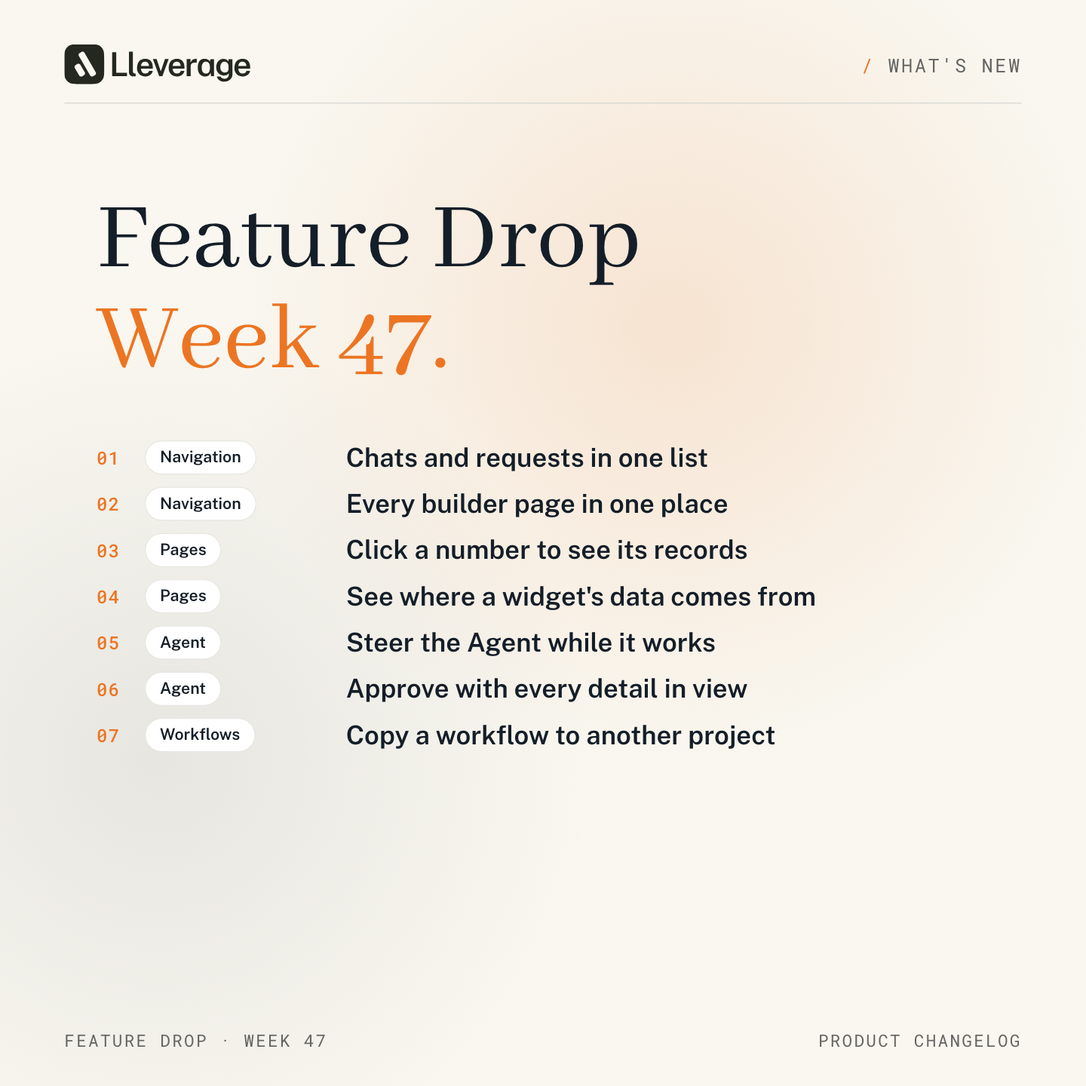
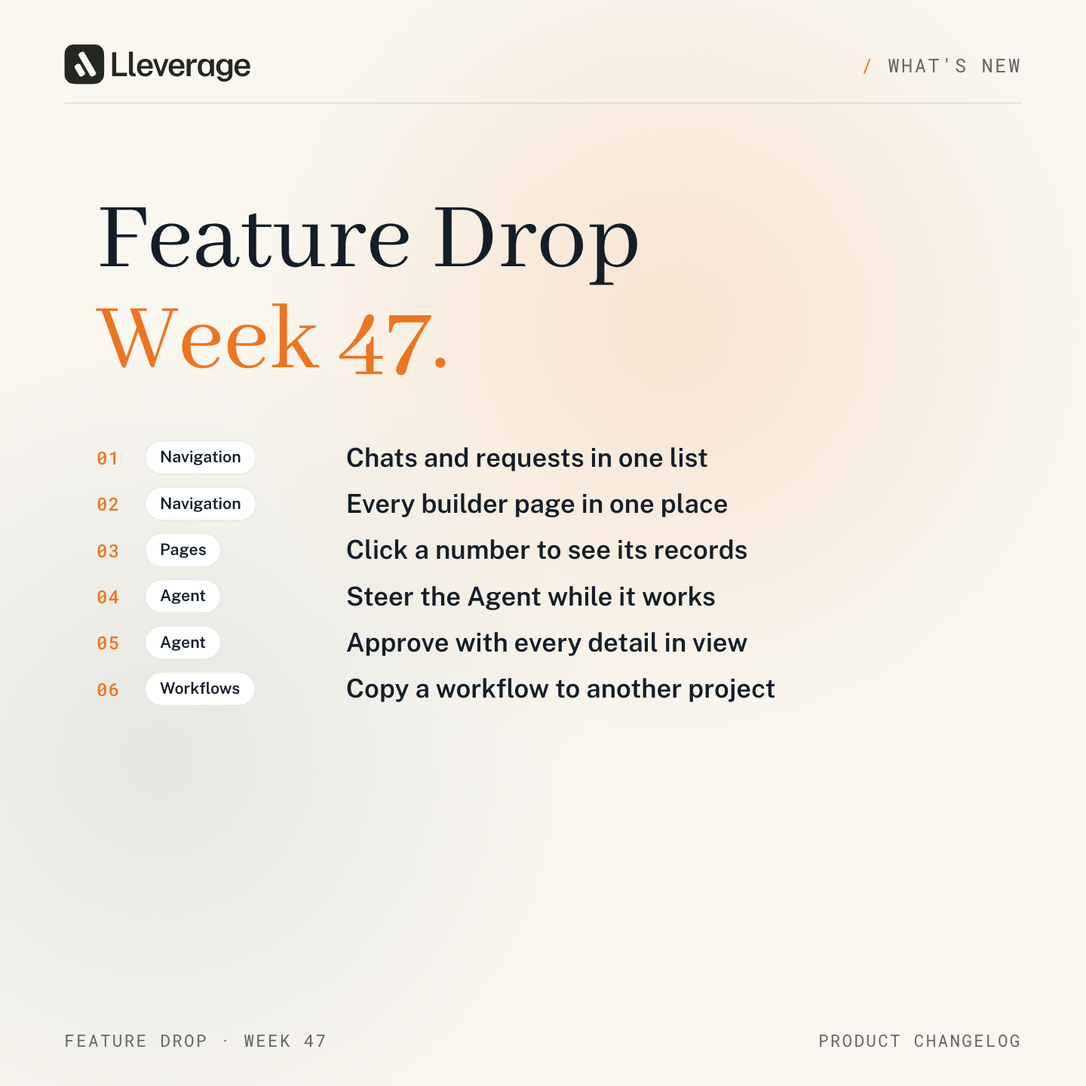
Feature Drop Week 47: widget source chapter out, placeholders aligned
Claude-Session: https://claude.ai/code/session_01WXoob6UKYZWkcKnn9sMm6R

Changed region(s): [[0.3125, 0.5312, 0.75, 0.6875], [0.125, 0.5938, 0.25, 0.7188], [0.1562, 0.5312, 0.1875, 0.5625]]

diff --git a/marketing/feature-drops/2026-w47/ch2-hub.html b/marketing/feature-drops/2026-w47/ch2-hub.html
@@ -25,7 +25,7 @@
   .cfg .cintro { padding: 4px 32px 0; font-size: 14px; line-height: 20px; color: hsl(var(--muted-foreground)); }
   .cfg .big { margin: 16px 32px 0; max-width: 576px; height: 44px; border-radius: 12px; border: .5px solid hsl(var(--border)); outline: .5px solid hsl(var(--border)); outline-offset: -1px; background: hsl(var(--card)); display: flex; align-items: center; gap: 10px; padding: 0 14px; font-size: 15px; }
   .cfg .big svg { width: 15px; height: 15px; color: hsl(var(--muted-foreground)); }
-  .cfg .big .ph { color: hsl(var(--muted-foreground)); }
+  .cfg .big .plh { color: hsl(var(--muted-foreground)); }
   .cols { padding: 24px 32px; display: grid; grid-template-columns: repeat(3, minmax(0, 1fr)); column-gap: 24px; row-gap: 32px; align-items: start; }
   .cg h3 { margin: 0 0 8px; font-size: 16px; line-height: 24px; font-weight: 600; letter-spacing: -.01em; }
   .cg .cc { border-radius: 12px; border: .5px solid hsl(var(--border)); outline: .5px solid hsl(var(--border)); outline-offset: -1px; padding: 4px 6px; display: flex; flex-direction: column; }
@@ -63,7 +63,7 @@
         <div class="cfg" id="cfg">
           <div id="cfgh"></div>
           <div class="cintro">Only builders can see this. Find every part of this project, and pin any page to the navigation for the people who use it.</div>
-          <div class="big" id="big"><span data-fa="faMagnifyingGlass"></span><span id="q" class="ph">Search this project</span></div>
+          <div class="big" id="big"><span data-fa="faMagnifyingGlass"></span><span id="q" class="plh">Search this project</span></div>
           <div class="cols" id="cols"></div>
           <div class="res" id="res">
             <h4>Workflows</h4>
@@ -85,7 +85,7 @@
 <script src="clip.js"></script>
 <script src="chapter.js"></script>
 <script>
-  CHAPTER({ n: 2, total: 7, module: "Navigation", footerLeft: "Feature Drop · Week 47",
+  CHAPTER({ n: 2, total: 6, module: "Navigation", footerLeft: "Feature Drop · Week 47",
     title: "Every builder page<br><em>in one place.</em>",
     line: "Builders get Configure at the top of the navigation: every page of the project, grouped, with a search across the whole project." });
   const D = 15.2;
@@ -154,7 +154,7 @@
     $("#va").classList.toggle("hov", t >= 7.3);
     $("#cfg").style.display = cfg ? "block" : "none"; $("#cfg").style.opacity = out(p(t, 7.65, 7.9));
     const typed = t >= 11.0;
-    if (typed) { type($("#q"), QY, t, 11.0, 11.6, null); $("#q").className = ""; } else { $("#q").textContent = "Search this project"; $("#q").className = "ph"; }
+    if (typed) { type($("#q"), QY, t, 11.0, 11.6, null); $("#q").className = ""; } else { $("#q").textContent = "Search this project"; $("#q").className = "plh"; }
     const res = t >= 11.7;
     $("#cols").style.display = res ? "none" : ""; $("#res").style.display = res ? "block" : "none"; $("#res").style.opacity = out(p(t, 11.7, 11.95));
   });

diff --git a/marketing/feature-drops/2026-w47/ch6-copy.html b/marketing/feature-drops/2026-w47/ch6-copy.html
@@ -67,7 +67,7 @@
   .dlg .db { padding: 16px 24px 8px; display: flex; flex-direction: column; gap: 6px; font-size: 14px; line-height: 20px; }
   .dlg label { font-size: 14px; line-height: 14px; font-weight: 500; }
   .sel { position: relative; height: 32px; display: flex; align-items: center; padding: 0 12px; border: 1px solid hsl(var(--input)); border-radius: 10px; background: hsl(var(--background)); }
-  .sel .ph { color: hsl(var(--muted-foreground)); }
+  .sel .plh { color: hsl(var(--muted-foreground)); }
   .sel .cv { margin-left: auto; opacity: .5; } .sel .cv svg { width: 16px; height: 16px; }
   .opts { position: absolute; left: -1px; right: -1px; top: 36px; padding: 4px; background: hsl(var(--card)); border: 1px solid hsl(var(--border)); border-radius: 10px; box-shadow: 0 4px 6px -1px rgb(0 0 0 / .1); z-index: 2; }
   .opts div { padding: 6px 8px; border-radius: 8px; }
@@ -137,7 +137,7 @@
           <div id="s1">
             <div class="dh"><h2>Copy workflow to another project</h2><div class="dd">Read order emails will be added to the chosen project as an unpublished draft. This one stays as it is.</div></div>
             <div class="db"><label>Project</label>
-              <div class="sel" id="sel"><span id="selv" class="ph">Choose a project</span><span class="cv" data-lu="chevronDown"></span>
+              <div class="sel" id="sel"><span id="selv" class="plh">Choose a project</span><span class="cv" data-lu="chevronDown"></span>
                 <div class="opts" id="opts"><div>Invoices</div><div id="opt">Order intake Belgium</div><div>Purchasing</div></div></div></div>
             <div class="df"><span class="ob">Cancel</span><span class="pb off" id="go">Copy to project</span></div>
           </div>
@@ -159,7 +159,7 @@
 <script src="clip.js"></script>
 <script src="chapter.js"></script>
 <script>
-  CHAPTER({ n: 7, total: 7, module: "Workflows", footerLeft: "Feature Drop · Week 47",
+  CHAPTER({ n: 6, total: 6, module: "Workflows", footerLeft: "Feature Drop · Week 47",
     title: "Copy a workflow<br><em>to another project.</em>",
     line: "Copy to project puts a workflow in another project as an unpublished draft, and lists the tables, connections and variables it still points at." });
   const D = 14.8;
@@ -213,7 +213,7 @@
     $("#cpi").classList.toggle("hov", t >= 3.4);
     $("#opt").classList.toggle("hov", t >= 5.9);
     const picked = t >= 6.3;
-    $("#selv").textContent = picked ? "Order intake Belgium" : "Choose a project"; $("#selv").className = picked ? "" : "ph";
+    $("#selv").textContent = picked ? "Order intake Belgium" : "Choose a project"; $("#selv").className = picked ? "" : "plh";
     $("#go").classList.toggle("off", !picked);
     $("#go").textContent = t >= 7.3 && t < 8.0 ? "Copying…" : "Copy to project";
     $("#go").classList.toggle("press", t >= 7.2 && t < 7.4);

diff --git a/marketing/feature-drops/2026-w47/ch4-steer.html b/marketing/feature-drops/2026-w47/ch4-steer.html
@@ -39,7 +39,7 @@
             </div></div>
           </div>
           <div class="foot col">
-            <div class="cmp" id="cmp"><span class="cb32" data-lu="plus"></span><div class="tx" id="tx"><span class="ph">Reply to Lleverage…</span></div>
+            <div class="cmp" id="cmp"><span class="cb32" data-lu="plus"></span><div class="tx" id="tx"><span class="plh">Reply to Lleverage…</span></div>
               <span class="cb32 sec" id="stop"></span><span class="cb32 pri" id="queue" data-lu="listPlus"></span></div>
             <div class="under"><span class="l"><span data-fa="faFolder"></span>Order intake</span><span class="r"><b>Opus 5.5</b> Medium <span data-lu="chevronDown"></span></span></div>
           </div>
@@ -53,7 +53,7 @@
 <script src="clip.js"></script>
 <script src="chapter.js"></script>
 <script>
-  CHAPTER({ n: 5, total: 7, module: "Agent", footerLeft: "Feature Drop · Week 47",
+  CHAPTER({ n: 4, total: 6, module: "Agent", footerLeft: "Feature Drop · Week 47",
     title: "Steer the Agent<br><em>while it works.</em>",
     line: "A message typed while the Agent works waits its turn. Send now steers it into the work under way, and the Agent carries on with it." });
   const D = 14.0;
@@ -75,7 +75,7 @@
   const L = (k) => { $("#qm").style.display = k >= 1 ? "" : "none"; $("#am2").style.display = k >= 2 ? "" : "none"; $("#wa").style.display = k === 1 ? "" : "none"; $("#stl").style.display = k >= 2 ? "" : "none";
     $("#qb").classList.toggle("wait", k === 1); };
   L(0); $("#tx").textContent = Q; const P = { tx: at($("#tx"), 0.2), queue: at($("#queue")) };
-  L(1); $("#tx").innerHTML = '<span class="ph">Reply to Lleverage…</span>'; P.send = at($("#sendnow"), 0.4);
+  L(1); $("#tx").innerHTML = '<span class="plh">Reply to Lleverage…</span>'; P.send = at($("#sendnow"), 0.4);
   const c1 = at($("#cmp"), 1, 1), a0 = at($(".am"), 0, 0);
   L(0);
   const VW = C.STAGE_W, VH = C.STAGE_H, FIT = Math.min(VW / 1280, VH / C.APP_H) * 0.98;
@@ -114,7 +114,7 @@
     type($("#rep"), R, t, 11.1, 11.8, null);
     // The composer: typed text, then Stop beside Queue while there is text; empty again once queued.
     const k = t < 4.75 ? 0 : t < 8.5 ? 1 : 2; L(k);
-    if (t >= 2.65 && t < 4.75) { type($("#tx"), Q, t, 2.65, 4.25, null); } else $("#tx").innerHTML = '<span class="ph">Reply to Lleverage…</span>';
+    if (t >= 2.65 && t < 4.75) { type($("#tx"), Q, t, 2.65, 4.25, null); } else $("#tx").innerHTML = '<span class="plh">Reply to Lleverage…</span>';
     const hasText = t >= 2.7 && t < 4.75;
     $("#stop").innerHTML = working ? lu("loader2", "", `transform:rotate(${(t * 360) % 360}deg)`) : fa("faPhoneFlip");
     $("#stop").className = working ? "cb32 sec" : "cb32";

diff --git a/marketing/feature-drops/2026-w47/feature-drop-cards.html b/marketing/feature-drops/2026-w47/feature-drop-cards.html
@@ -55,10 +55,9 @@
         <li><span class="n">01</span><span class="mod">Navigation</span><span class="t">Chats and requests in one list</span></li>
         <li><span class="n">02</span><span class="mod">Navigation</span><span class="t">Every builder page in one place</span></li>
         <li><span class="n">03</span><span class="mod">Pages</span><span class="t">Click a number to see its records</span></li>
-        <li><span class="n">04</span><span class="mod">Pages</span><span class="t">See where a widget's data comes from</span></li>
-        <li><span class="n">05</span><span class="mod">Agent</span><span class="t">Steer the Agent while it works</span></li>
-        <li><span class="n">06</span><span class="mod">Agent</span><span class="t">Approve with every detail in view</span></li>
-        <li><span class="n">07</span><span class="mod">Workflows</span><span class="t">Copy a workflow to another project</span></li>
+        <li><span class="n">04</span><span class="mod">Agent</span><span class="t">Steer the Agent while it works</span></li>
+        <li><span class="n">05</span><span class="mod">Agent</span><span class="t">Approve with every detail in view</span></li>
+        <li><span class="n">06</span><span class="mod">Workflows</span><span class="t">Copy a workflow to another project</span></li>
       </ul>
     </div>
     <div class="footer"><span>Feature Drop · Week 47</span><span>Product changelog</span></div>

diff --git a/marketing/feature-drops/2026-w47/ch5-approve.html b/marketing/feature-drops/2026-w47/ch5-approve.html
@@ -55,7 +55,7 @@
               <div class="bt"><span class="bb ok" id="ok">Approve</span><span class="bb">Deny</span></div>
             </div>
             <div class="rs" id="rs">Response submitted</div>
-            <div class="cmp"><span class="cb32" data-lu="plus"></span><div class="tx"><span class="ph" id="ph">Reply, or approve above…</span></div><span class="cb32" data-fa="faPhoneFlip"></span></div>
+            <div class="cmp"><span class="cb32" data-lu="plus"></span><div class="tx"><span class="plh" id="ph">Reply, or approve above…</span></div><span class="cb32" data-fa="faPhoneFlip"></span></div>
             <div class="under"><span class="l"><span data-fa="faFolder"></span>Order intake</span><span class="r"><b>Opus 5.5</b> Medium <span data-lu="chevronDown"></span></span></div>
           </div>
         </div>
@@ -68,7 +68,7 @@
 <script src="clip.js"></script>
 <script src="chapter.js"></script>
 <script>
-  CHAPTER({ n: 6, total: 7, module: "Agent", footerLeft: "Feature Drop · Week 47",
+  CHAPTER({ n: 5, total: 6, module: "Agent", footerLeft: "Feature Drop · Week 47",
     title: "Approve with<br><em>every detail in view.</em>",
     line: "When the Agent asks to change something in a connected system, the approval lists every value it will send, with readable labels and dates." });
   const D = 12.2;

diff --git a/marketing/feature-drops/2026-w47/parts/agent-page.css b/marketing/feature-drops/2026-w47/parts/agent-page.css
@@ -38,7 +38,7 @@
 .foot { padding-bottom: 8px; }
 .cmp { background: hsl(var(--card)); border: .5px solid hsl(var(--border)); outline: .5px solid hsl(var(--border)); outline-offset: -1px; border-radius: 12px; box-shadow: 0 1px 2px rgb(0 0 0 / .05); padding: 6px; display: flex; align-items: center; gap: 2px; }
 .cmp .tx { flex: 1; min-width: 0; padding: 4px 12px; font-size: 14px; line-height: 20px; min-height: 28px; display: flex; align-items: center; }
-.cmp .tx .ph { color: hsl(var(--muted-foreground)); }
+.cmp .tx .plh { color: hsl(var(--muted-foreground)); }
 .cb32 { width: 32px; height: 32px; border-radius: 10px; display: grid; place-items: center; color: hsl(var(--foreground)); flex: none; }
 .cb32 svg { width: 14px; height: 14px; }
 .cb32 svg.lu { width: 16px; height: 16px; }

diff --git a/marketing/feature-drops/2026-w47/ch3-records.html b/marketing/feature-drops/2026-w47/ch3-records.html
@@ -82,7 +82,7 @@
 <script src="clip.js"></script>
 <script src="chapter.js"></script>
 <script>
-  CHAPTER({ n: 3, total: 7, module: "Pages", footerLeft: "Feature Drop · Week 47",
+  CHAPTER({ n: 3, total: 6, module: "Pages", footerLeft: "Feature Drop · Week 47",
     title: "Click a number<br><em>to see its records.</em>",
     line: "A big number, a bar or a row on a live widget opens the records behind it in a side panel, with the filters that made the number." });
   const D = 13.2;

diff --git a/marketing/feature-drops/2026-w47/ch1-list.html b/marketing/feature-drops/2026-w47/ch1-list.html
@@ -59,7 +59,7 @@
 <script src="clip.js"></script>
 <script src="chapter.js"></script>
 <script>
-  CHAPTER({ n: 1, total: 7, module: "Navigation", footerLeft: "Feature Drop · Week 47",
+  CHAPTER({ n: 1, total: 6, module: "Navigation", footerLeft: "Feature Drop · Week 47",
     title: "Chats and requests<br><em>in one list.</em>",
     line: "Every project has one navigation. At its foot, one list: Needs me for the requests waiting on you, Chats, and Completed." });
   const D = 13.6;

diff --git a/marketing/feature-drops/2026-w47/changelog-entry.md b/marketing/feature-drops/2026-w47/changelog-entry.md
@@ -3,14 +3,13 @@
 
 {% embed url="https://www.youtube.com/watch?v=<id>" %}
 
-Every project now has one navigation: your pinned pages at the top, then one list of the chats and requests that need you. Builders reach every page of the project from one place. And the numbers on your pages open up: click one to see the records behind it, or see which workflows fill a widget.
+Every project now has one navigation: your pinned pages at the top, then one list of the chats and requests that need you. Builders reach every page of the project from one place. And the numbers on your pages open up: click one to see the records behind it.
 
 ### New features
 
 * **Chats and requests in one list.** The foot of the navigation holds one list with three tabs: **Needs me** for the requests waiting on you, **Chats** for your conversations with the Agent, and **Completed**. An orange dot marks something new, and a request opens full page and reads like a chat, for example a missing PO number with the form to fill it in. Pinned pages keep their place above it, and **New** starts a chat. [Navigation](https://docs.lleverage.ai/run-operations/overview/navigation)
 * **Every builder page in one place.** Builders get **Configure** at the top of the navigation. Point at it to see every page of the project grouped as Automations, Context, Monitoring, Integrations and Settings; **View all** opens the Configure page, with one line on what each page is for and **Search this project** across workflows, tables and pages. [Navigation](https://docs.lleverage.ai/run-operations/overview/navigation)
 * **Click a number to see its records.** On a live widget, click a big number, a bar or a row and a side panel lists the records behind it, such as the six orders from Kuipers Hout waiting on a PO. The panel lists every condition that made the number (**Widget filter**, **Page** and **Clicked**), so the count matches, and a record opens with one click. [Live widgets](https://docs.lleverage.ai/run-operations/overview/live-widgets)
-* **See where a widget's data comes from.** The line under a widget names its data table, for example **From Orders**. Open it to see the workflows that fill the table, what starts each one, when it last ran and when the table last changed, with a link to the table. The refresh button says when the data changes. [Project overview](https://docs.lleverage.ai/run-operations/overview/project-dashboard)
 * **Steer the Agent while it works.** A message you type while the Agent works waits its turn below the conversation, with **Send now**, edit, copy and discard. **Send now** steers it into the work under way, for example a new delivery date, and the Agent carries on with it. **Stop** stays in view while you type, and the chat marks where you stopped. [Chat and sessions](https://docs.lleverage.ai/run-operations/agent/chat-and-sessions)
 * **Approve with every detail in view.** When the Agent asks to change something in a connected system, such as creating a sales order in Exact Online, the approval lists every value it will send: the customer, your reference, the dates and the lines, with readable labels and dates. Secrets are never shown. [Use the Agent](https://docs.lleverage.ai/run-operations/agent/getting-started)
 * **Copy a workflow to another project.** **Copy to project…** in a workflow's menu on the Workflows page puts a copy in another project of your organisation as an unpublished draft. It then lists what the copy still points at that the other project doesn't have, such as a data table or a connection, so you can point those steps at the right ones before you publish. [Build a workflow](https://docs.lleverage.ai/build-and-improve/automate/build-a-workflow)
@@ -24,6 +23,7 @@ Every project now has one navigation: your pinned pages at the top, then one lis
 * **Approve from Teams.** Approvals, choices and connection buttons from the Agent arrive in Teams as a card with buttons, as they do in Slack. A document the Agent makes in a group chat or channel is also offered in your personal chat, to save to OneDrive. [The Agent in Microsoft Teams](https://docs.lleverage.ai/run-operations/agent/agent-in-microsoft-teams)
 * **Alert groups you can manage.** In Organisation Settings, Notifications, **Alert groups** have **Edit** and **Delete** and list the alerts that use them; the bell on an activity view manages them too. [Alerts](https://docs.lleverage.ai/build-and-improve/monitoring/alerts-system)
 * **Pages by role.** A role can be limited to specific pages, as with tables and workflows, and everyone opens a project on the top page they can see. Admins can view the project as another role after switching on **Show role switcher** under My Account.
+* **Where a widget's data comes from.** The line under a widget names its data table, such as **From Orders**, and opens the workflows that fill it and when they last ran. [Project overview](https://docs.lleverage.ai/run-operations/overview/project-dashboard)
 * **Clearer widgets.** A widget with nothing to show says "Nothing yet for this period", charts name every bar and fill every day, and number cards share one layout.
 * **Read-only workflows.** Someone whose role can view but not edit workflows opens a workflow read-only, with its versions, runs and tests.
 * **Runs that explain themselves.** A failed run that can't be retried says why, a trigger request that was refused shows in Activity as **Not started**, and a connection that lacks a permission names it in plain words.

diff --git a/marketing/feature-drops/2026-w47/SPEC.md b/marketing/feature-drops/2026-w47/SPEC.md
@@ -1,8 +1,8 @@
 # Feature Drop · Week 47: chapter specs
 
-Theme: a new navigation, and a closer look at your data. Seven chapters, canvas style, 1440 × 1440.
+Theme: a new navigation, and a closer look at your data. Six chapters, canvas style, 1440 × 1440.
 Window: merged Mon 9 Nov – Sun 15 Nov 2026, live in production (app at 0da29d2, deployed 16 Nov 02:58 UTC; agent-service, workflow-service, channels-service and session-service at 8d3998f, 15 Nov 18:48 UTC).
-Footer: "Feature Drop · Week 47". `CHAPTER({ n, total: 7, module, footerLeft: "Feature Drop · Week 47", title, line })`.
+Footer: "Feature Drop · Week 47". `CHAPTER({ n, total: 6, module, footerLeft: "Feature Drop · Week 47", title, line })`.
 
 People: Eva Visser (EV), Tom de Groot (TG), Mila Jansen (MJ). Project "Order intake"; a second project "Order intake Belgium" for the copy.
 Data: orders, POs, Exact Online; Van Dijk Metaal, Kuipers Hout, Smit Elektro, Bakker Installatietechniek, Brouwer Verpakking; euro amounts.
@@ -13,7 +13,7 @@ Left out (flagged, internal or not live): Processes, Cases, Steps and boards (`p
 
 Docs pull requests: #37 (Processes, draft) left out, flagged; #20 (MCP tool renames, plugin 0.7.0, October) left out, not this week's product.
 
-Assumed: `live-widgets` is on for customers (the docs say live widgets went live on 30 Oct). Chapter 3 depends on it. Steering (chapter 5) is on for every organisation: agent-service production has `AGENT_MID_RUN_STEERING_ENABLED=true` and `AGENT_MID_RUN_STEERING_ORGANISATION_IDS=*`.
+Assumed: `live-widgets` is on for customers (the docs say live widgets went live on 30 Oct). Chapter 3 depends on it. Steering (chapter 4) is on for every organisation: agent-service production has `AGENT_MID_RUN_STEERING_ENABLED=true` and `AGENT_MID_RUN_STEERING_ORGANISATION_IDS=*`.
 
 ## Placement (narrative.md)
 
@@ -22,10 +22,9 @@ Assumed: `live-widgets` is on for customers (the docs say live widgets went live
 | 1 | Chats and requests in one list | operator | asked only for what needs them | 2 | Quote & Sell: a missing PO number waiting in Needs me |
 | 2 | Every builder page in one place | builder | faster to implement | 1, 4 | Quote & Sell: the order intake workflows and tables |
 | 3 | Click a number to see its records | manager, operator | operation visible | 6 | Quote & Sell: orders waiting on a PO, per customer |
-| 4 | See where a widget's data comes from | manager | operation visible; trust | 5 | Quote & Sell: Orders, filled by two workflows |
-| 5 | Steer the Agent while it works | operator | people steer the agents | 3 | Quote & Sell: a new delivery date mid-task |
-| 6 | Approve with every detail in view | operator | control and trust | 5, 6 | Quote & Sell: a sales order in Exact Online |
-| 7 | Copy a workflow to another project | builder | faster to implement | 7 | Order intake into a second site's project |
+| 4 | Steer the Agent while it works | operator | people steer the agents | 3 | Quote & Sell: a new delivery date mid-task |
+| 5 | Approve with every detail in view | operator | control and trust | 5, 6 | Quote & Sell: a sales order in Exact Online |
+| 6 | Copy a workflow to another project | builder | faster to implement | 7 | Order intake into a second site's project |
 
 ## Chapters
 
@@ -34,9 +33,10 @@ Assumed: `live-widgets` is on for customers (the docs say live widgets went live
 | 1 | `ch1-list.html` | Navigation | Chats and requests / *in one list.* | #9728, #10826 |
 | 2 | `ch2-hub.html` | Navigation | Every builder page / *in one place.* | #9728, #10816, #10819, #10824 |
 | 3 | `ch3-records.html` | Pages | Click a number / *to see its records.* | #10617 (#10376, #10380, #10385, #10387, #10389) |
-| 4 | `ch4-source.html` | Pages | See where a widget's / *data comes from.* | #10623 |
-| 5 | `ch5-steer.html` | Agent | Steer the Agent / *while it works.* | #10651, #10446, #10548 |
-| 6 | `ch6-approve.html` | Agent | Approve with / *every detail in view.* | #10432 |
-| 7 | `ch7-copy.html` | Workflows | Copy a workflow / *to another project.* | #10261 |
+| 4 | `ch4-steer.html` | Agent | Steer the Agent / *while it works.* | #10651, #10446, #10548 |
+| 5 | `ch5-approve.html` | Agent | Approve with / *every detail in view.* | #10432 |
+| 6 | `ch6-copy.html` | Workflows | Copy a workflow / *to another project.* | #10261 |
 
 Also new (card 2): call the Agent again (#10360, #10689) · view larger (#10647, #10690) · archive or delete a chat (#10687) · a model for each schedule (#10349, #10585, #10414) · approve from Teams (#10378) · alert groups you can manage (#10663).
+
+Review 1 (16 Nov): the widget source chapter (#10623) is out of the video and the post. Input placeholders used the class `.ph`, which app.css also uses for the page header (16px top padding), so they sat low; renamed to `.plh`.

diff --git a/marketing/feature-drops/2026-w47/SHORTLIST.md b/marketing/feature-drops/2026-w47/SHORTLIST.md
@@ -12,10 +12,9 @@ Theme: a new navigation, and a closer look at your data.
 | 1 | Navigation | Chats and requests / in one list | #9728, #10826 | none; every project moved to the new navigation |
 | 2 | Navigation | Every builder page / one click away (compass, Builder Hub) | #9728, #10816, #10819, #10824 | none; builders only, by role |
 | 3 | Pages | Click a number / to see its records | #10617 (#10376, #10380, #10385, #10387, #10389) | `live-widgets`, on for customers since 30 Oct |
-| 4 | Pages | See where a widget's / data comes from | #10623 | none for the line; live widgets need `live-widgets` |
-| 5 | Agent | Steer the Agent / while it works | #10651, #10446 | agent-service `AGENT_MID_RUN_STEERING_ENABLED=true` for all organisations in production |
-| 6 | Agent | Approve with / every detail in view | #10432 | none |
-| 7 | Workflows | Copy a workflow / to another project | #10261 | none; needs Edit on workflows in both projects |
+| 4 | Agent | Steer the Agent / while it works | #10651, #10446 | agent-service `AGENT_MID_RUN_STEERING_ENABLED=true` for all organisations in production |
+| 5 | Agent | Approve with / every detail in view | #10432 | none |
+| 6 | Workflows | Copy a workflow / to another project | #10261 | none; needs Edit on workflows in both projects |
 
 ## Also new (cover card 2, six rows)
 
@@ -28,6 +27,8 @@ Theme: a new navigation, and a closer look at your data.
 
 Everything else goes in the changelog only.
 
+Review 1 (16 Nov): chapter 4, where a widget's data comes from (#10623), taken out of the video and the post at Badr's request; it stays in the changelog as one line under Improvements.
+
 ## Placement (narrative.md)
 
 | # | Feature | For | Moves | Diff. | Example |
@@ -35,10 +36,9 @@ Everything else goes in the changelog only.
 | 1 | One list for chats and requests | operator | people asked only for what needs them | 2 | Quote & Sell: a request about a missing PO waiting in Needs me |
 | 2 | Builder Hub | builder | faster to implement | 1, 4 | Quote & Sell: the order intake workflows and tables |
 | 3 | Records behind a number | manager, operator | operation visible | 6 | Quote & Sell: orders waiting on a PO, per customer |
-| 4 | Where a widget's data comes from | manager | operation visible; trust | 5 | Quote & Sell: the order table filled by the order intake workflow |
-| 5 | Steer the Agent while it works | operator, builder | people steer the agents | 3 | Quote & Sell: correcting a delivery date mid-task |
-| 6 | Approval with every detail | operator | control and trust | 5, 6 | Quote & Sell: creating a sales order in Exact Online |
-| 7 | Copy a workflow to another project | builder | faster to implement | 7 | Moving the order intake workflow from a test project to production |
+| 4 | Steer the Agent while it works | operator, builder | people steer the agents | 3 | Quote & Sell: correcting a delivery date mid-task |
+| 5 | Approval with every detail | operator | control and trust | 5, 6 | Quote & Sell: creating a sales order in Exact Online |
+| 6 | Copy a workflow to another project | builder | faster to implement | 7 | Moving the order intake workflow from a test project to production |
 
 ## Docs pull requests (lleverage-ai/docs)
 

diff --git a/marketing/feature-drops/2026-w47/linkedin-post.md b/marketing/feature-drops/2026-w47/linkedin-post.md
@@ -4,7 +4,7 @@ Big week: Lleverage has a new navigation. Your chats and everything waiting on y
 
 In an autonomous back office the agents handle the orders and invoices that can run on their own, and people step in for the decisions. That only works when those decisions are easy to find and easy to trust. Every company runs its back office its own way, so the system around it has to be built for that company, and checked by the people who run it.
 
-So this week is also about seeing what's behind the work. Click a number on a page and you get the orders behind it. Every widget says which table and which workflow fill it. An approval lists exactly what the Agent will send to your ERP before you say yes. And you can steer the Agent while it works.
+So this week is also about seeing what's behind the work. Click a number on a page and you get the orders behind it. An approval lists exactly what the Agent will send to your ERP before you say yes. And you can steer the Agent while it works.
 
 My favourite: copying a workflow to another project. Build and test it in one, run it in the other.
 
